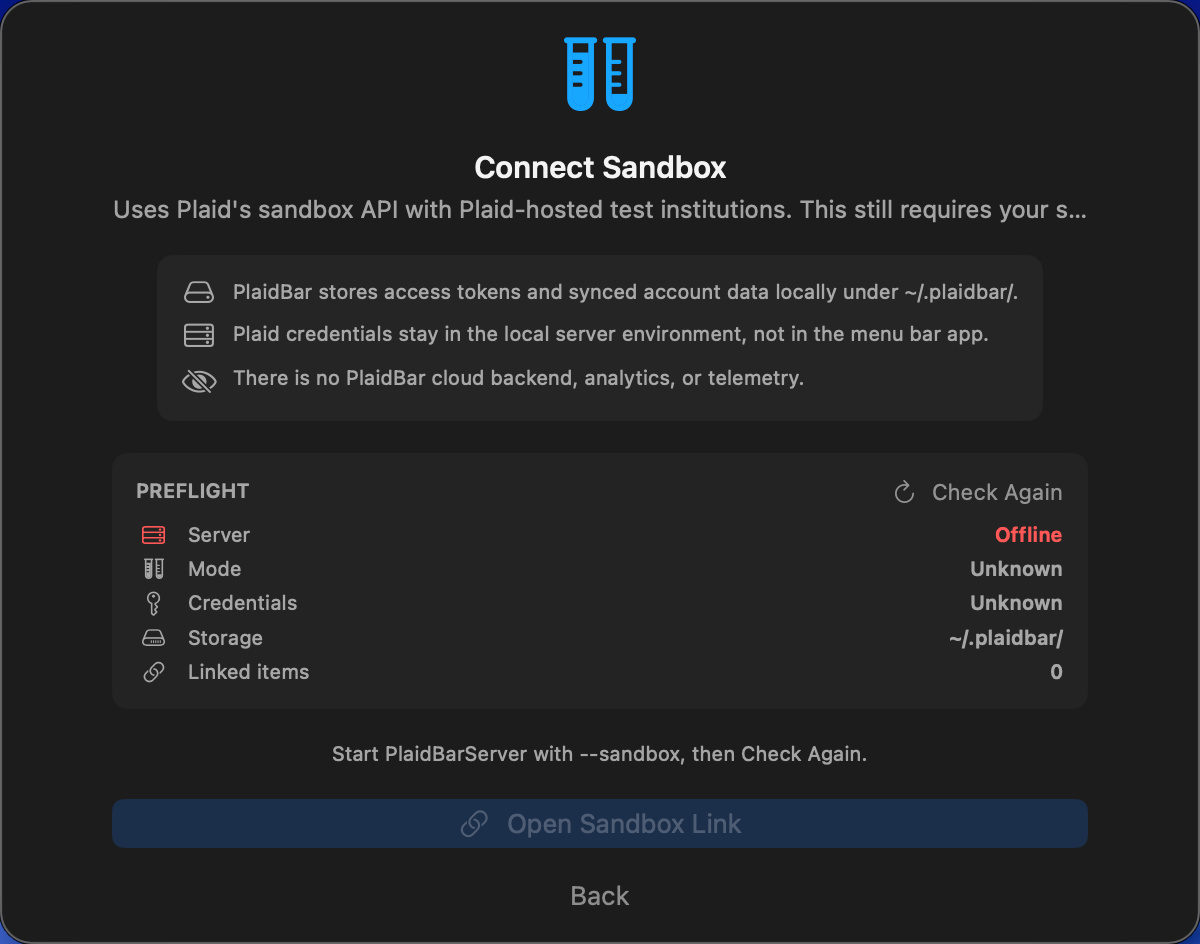
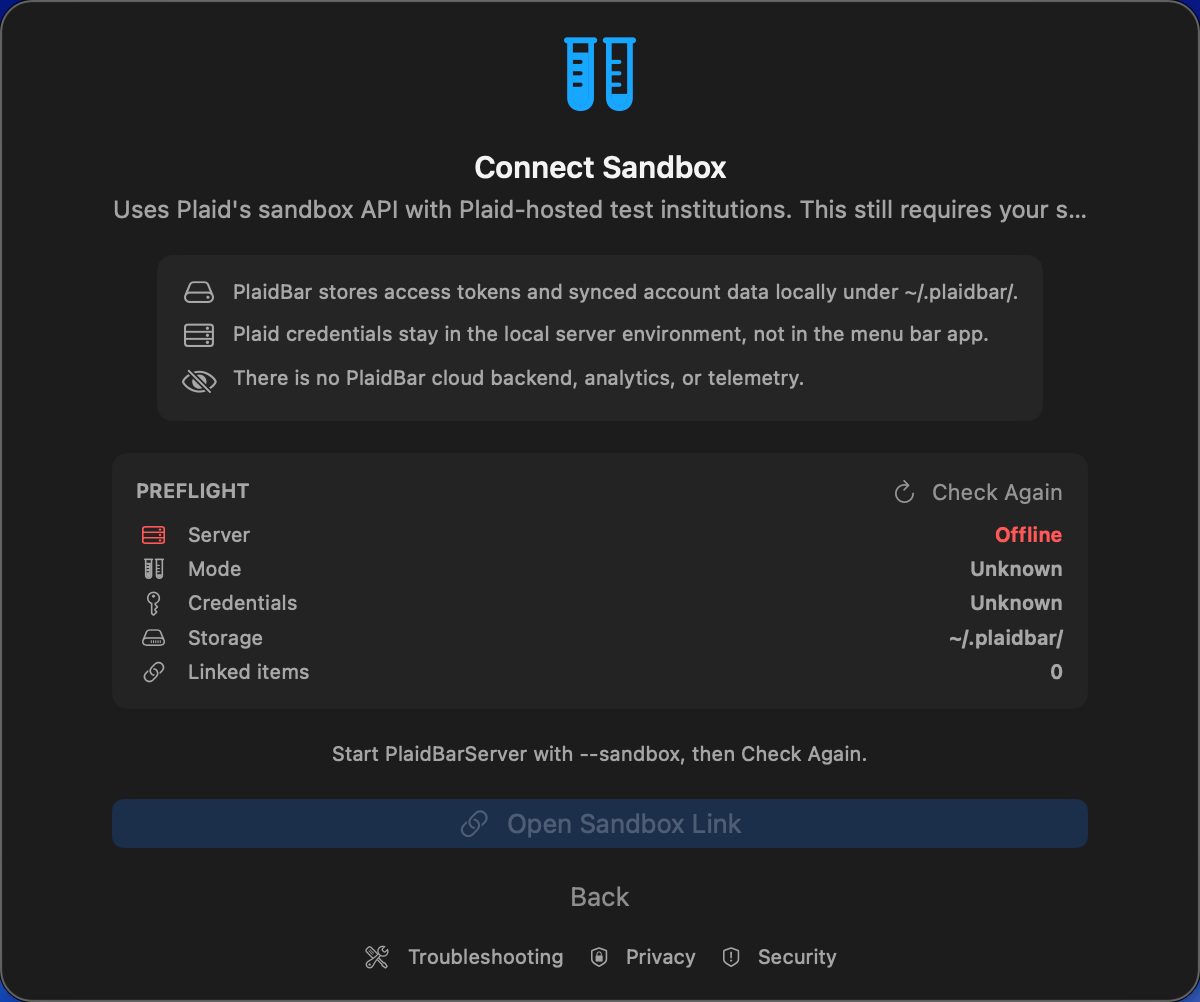
Merge pull request #126 from ftchvs/feature/v0.6-setup-support-links
feat: add setup support links

Pull request: feat: add setup support links
## Summary
- Add troubleshooting, privacy, and security links directly to setup/onboarding screens
- Regenerate the setup preflight screenshot so README assets reflect the support links

## Verification
- [x] ./Scripts/screenshots.sh
- [x] swift build --target PlaidBar --skip-update --disable-keychain
- [x] git diff --check
- [x] bash -n Scripts/*.sh Scripts/plaidbar-run
- [x] ruby -c Formula/plaidbar.rb

## Notes
- Uses public docs links only.
- Screenshot uses local/demo state with no real financial data.

diff --git a/Sources/PlaidBar/Views/SetupView.swift b/Sources/PlaidBar/Views/SetupView.swift
@@ -100,6 +100,8 @@ struct SetupView: View {
                     setupMode = .production
                 }
             }
+
+            SetupSupportLinks()
         }
     }
 
@@ -172,6 +174,8 @@ struct SetupView: View {
                 setupMode = .choose
             }
             .buttonStyle(.borderless)
+
+            SetupSupportLinks()
         }
         .task {
             await appState.checkServerConnection()
@@ -240,6 +244,48 @@ struct SetupView: View {
         }
 
         return "Ready to open Plaid Link in your browser."
+    }
+}
+
+private struct SetupSupportLinks: View {
+    var body: some View {
+        HStack(spacing: Spacing.md) {
+            supportLink(
+                "Troubleshooting",
+                systemImage: "wrench.and.screwdriver",
+                url: "https://github.com/ftchvs/PlaidBar/blob/main/docs/troubleshooting.md"
+            )
+
+            supportLink(
+                "Privacy",
+                systemImage: "lock.shield",
+                url: "https://github.com/ftchvs/PlaidBar/blob/main/docs/privacy.md"
+            )
+
+            supportLink(
+                "Security",
+                systemImage: "exclamationmark.shield",
+                url: "https://github.com/ftchvs/PlaidBar/blob/main/SECURITY.md"
+            )
+        }
+        .font(.caption)
+        .frame(maxWidth: .infinity, alignment: .center)
+    }
+
+    @ViewBuilder
+    private func supportLink(
+        _ title: String,
+        systemImage: String,
+        url: String
+    ) -> some View {
+        if let destination = URL(string: url) {
+            Link(destination: destination) {
+                Label(title, systemImage: systemImage)
+                    .labelStyle(.titleAndIcon)
+            }
+            .buttonStyle(.plain)
+            .foregroundStyle(.secondary)
+        }
     }
 }
 